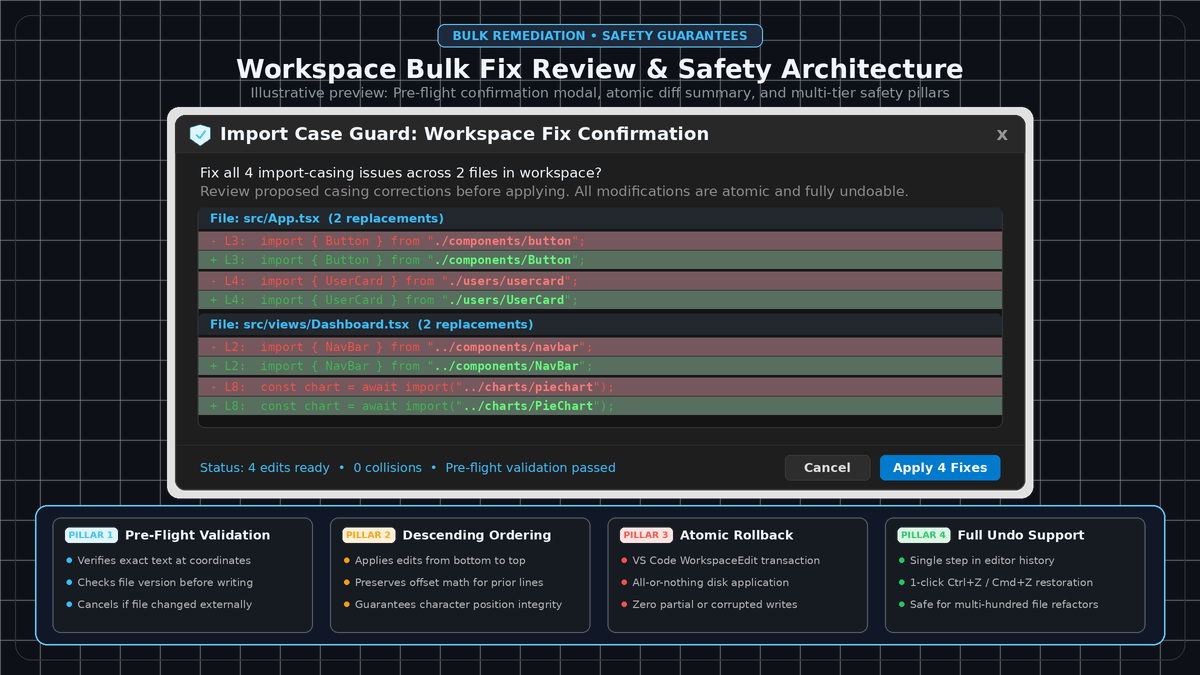
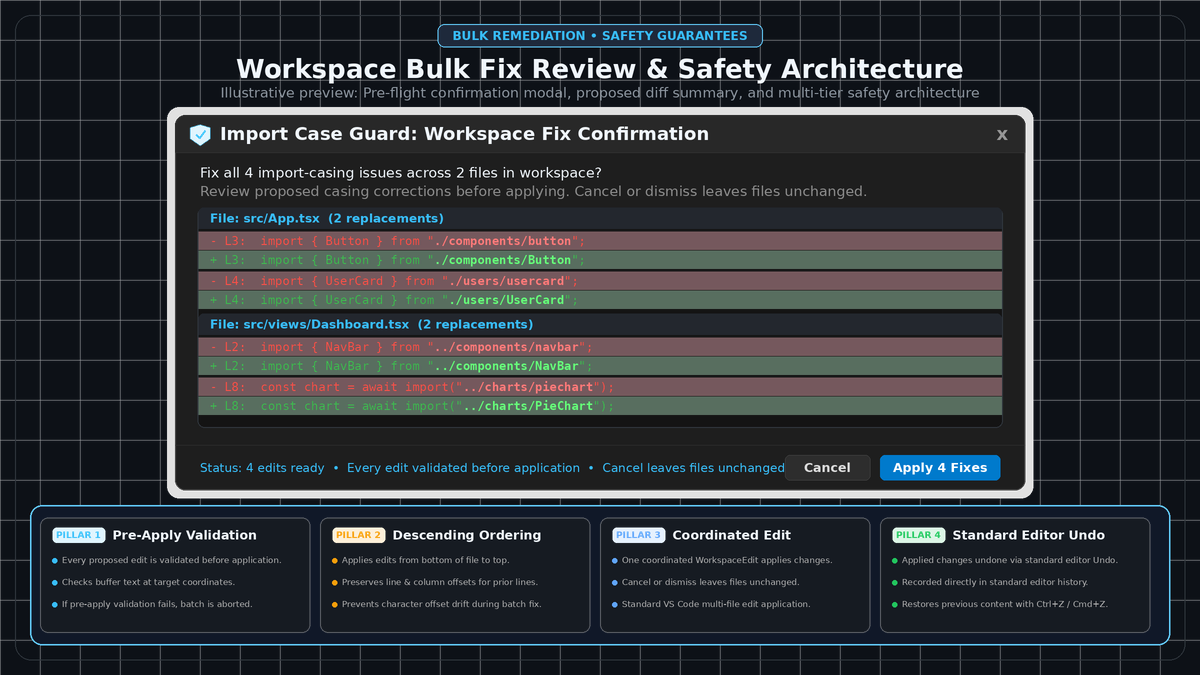
docs: refine media graphics with accurate validation and undo claims

diff --git a/CHANGELOG.md b/CHANGELOG.md
@@ -9,7 +9,7 @@ All notable changes to the "import-case-guard" extension will be documented in t
 - High-resolution documentation graphics (`media/overview.png`, `media/quick-fix-preview.png`, `media/bulk-review-preview.png`):
   - Architecture overview illustrating the cross-platform filesystem case sensitivity trap (macOS/Windows silent pass vs Linux CI failure).
   - In-editor diagnostic hover and 3-tiered Quick Fix menu preview (`Ctrl+.` / `Cmd+.`).
-  - Workspace bulk fix confirmation dialog, atomic proposed diffs, and 4-tier safety invariants.
+  - Workspace bulk fix confirmation dialog, proposed diff summary, and multi-tier safety architecture.
 
 ### Changed
 - Configured `"icon": "media/icon.png"` in extension manifest (`package.json`).
